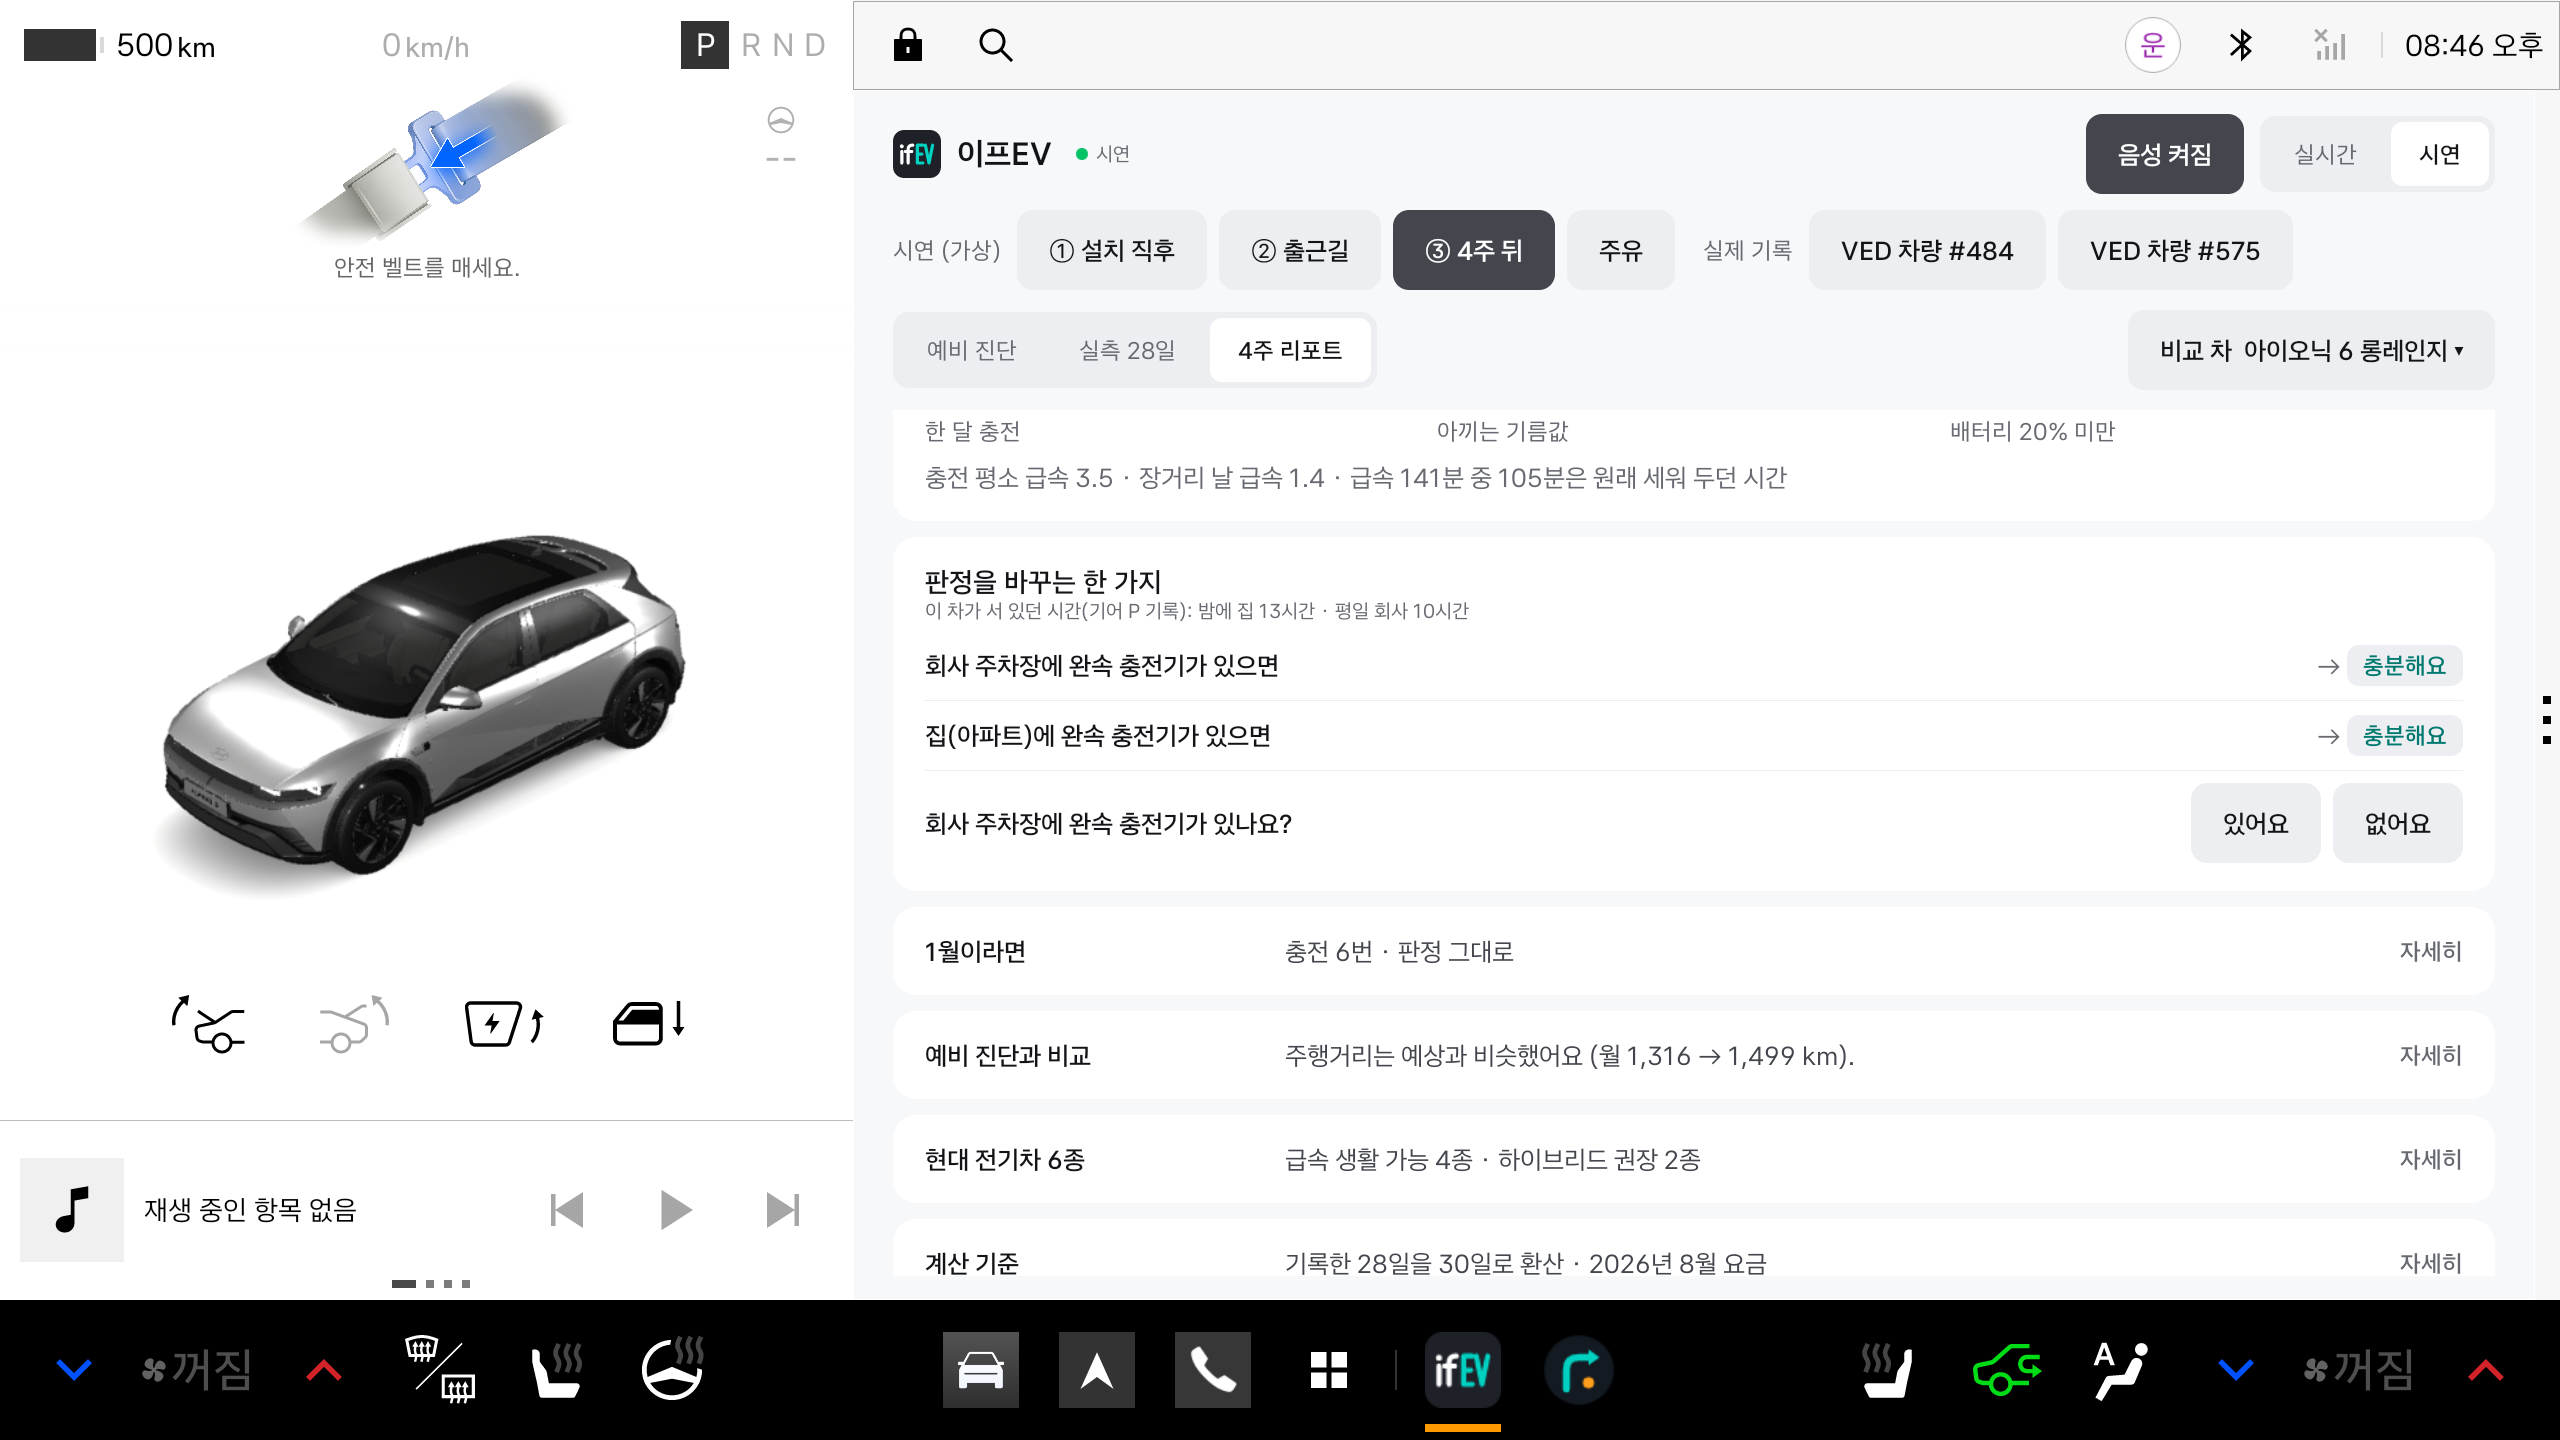
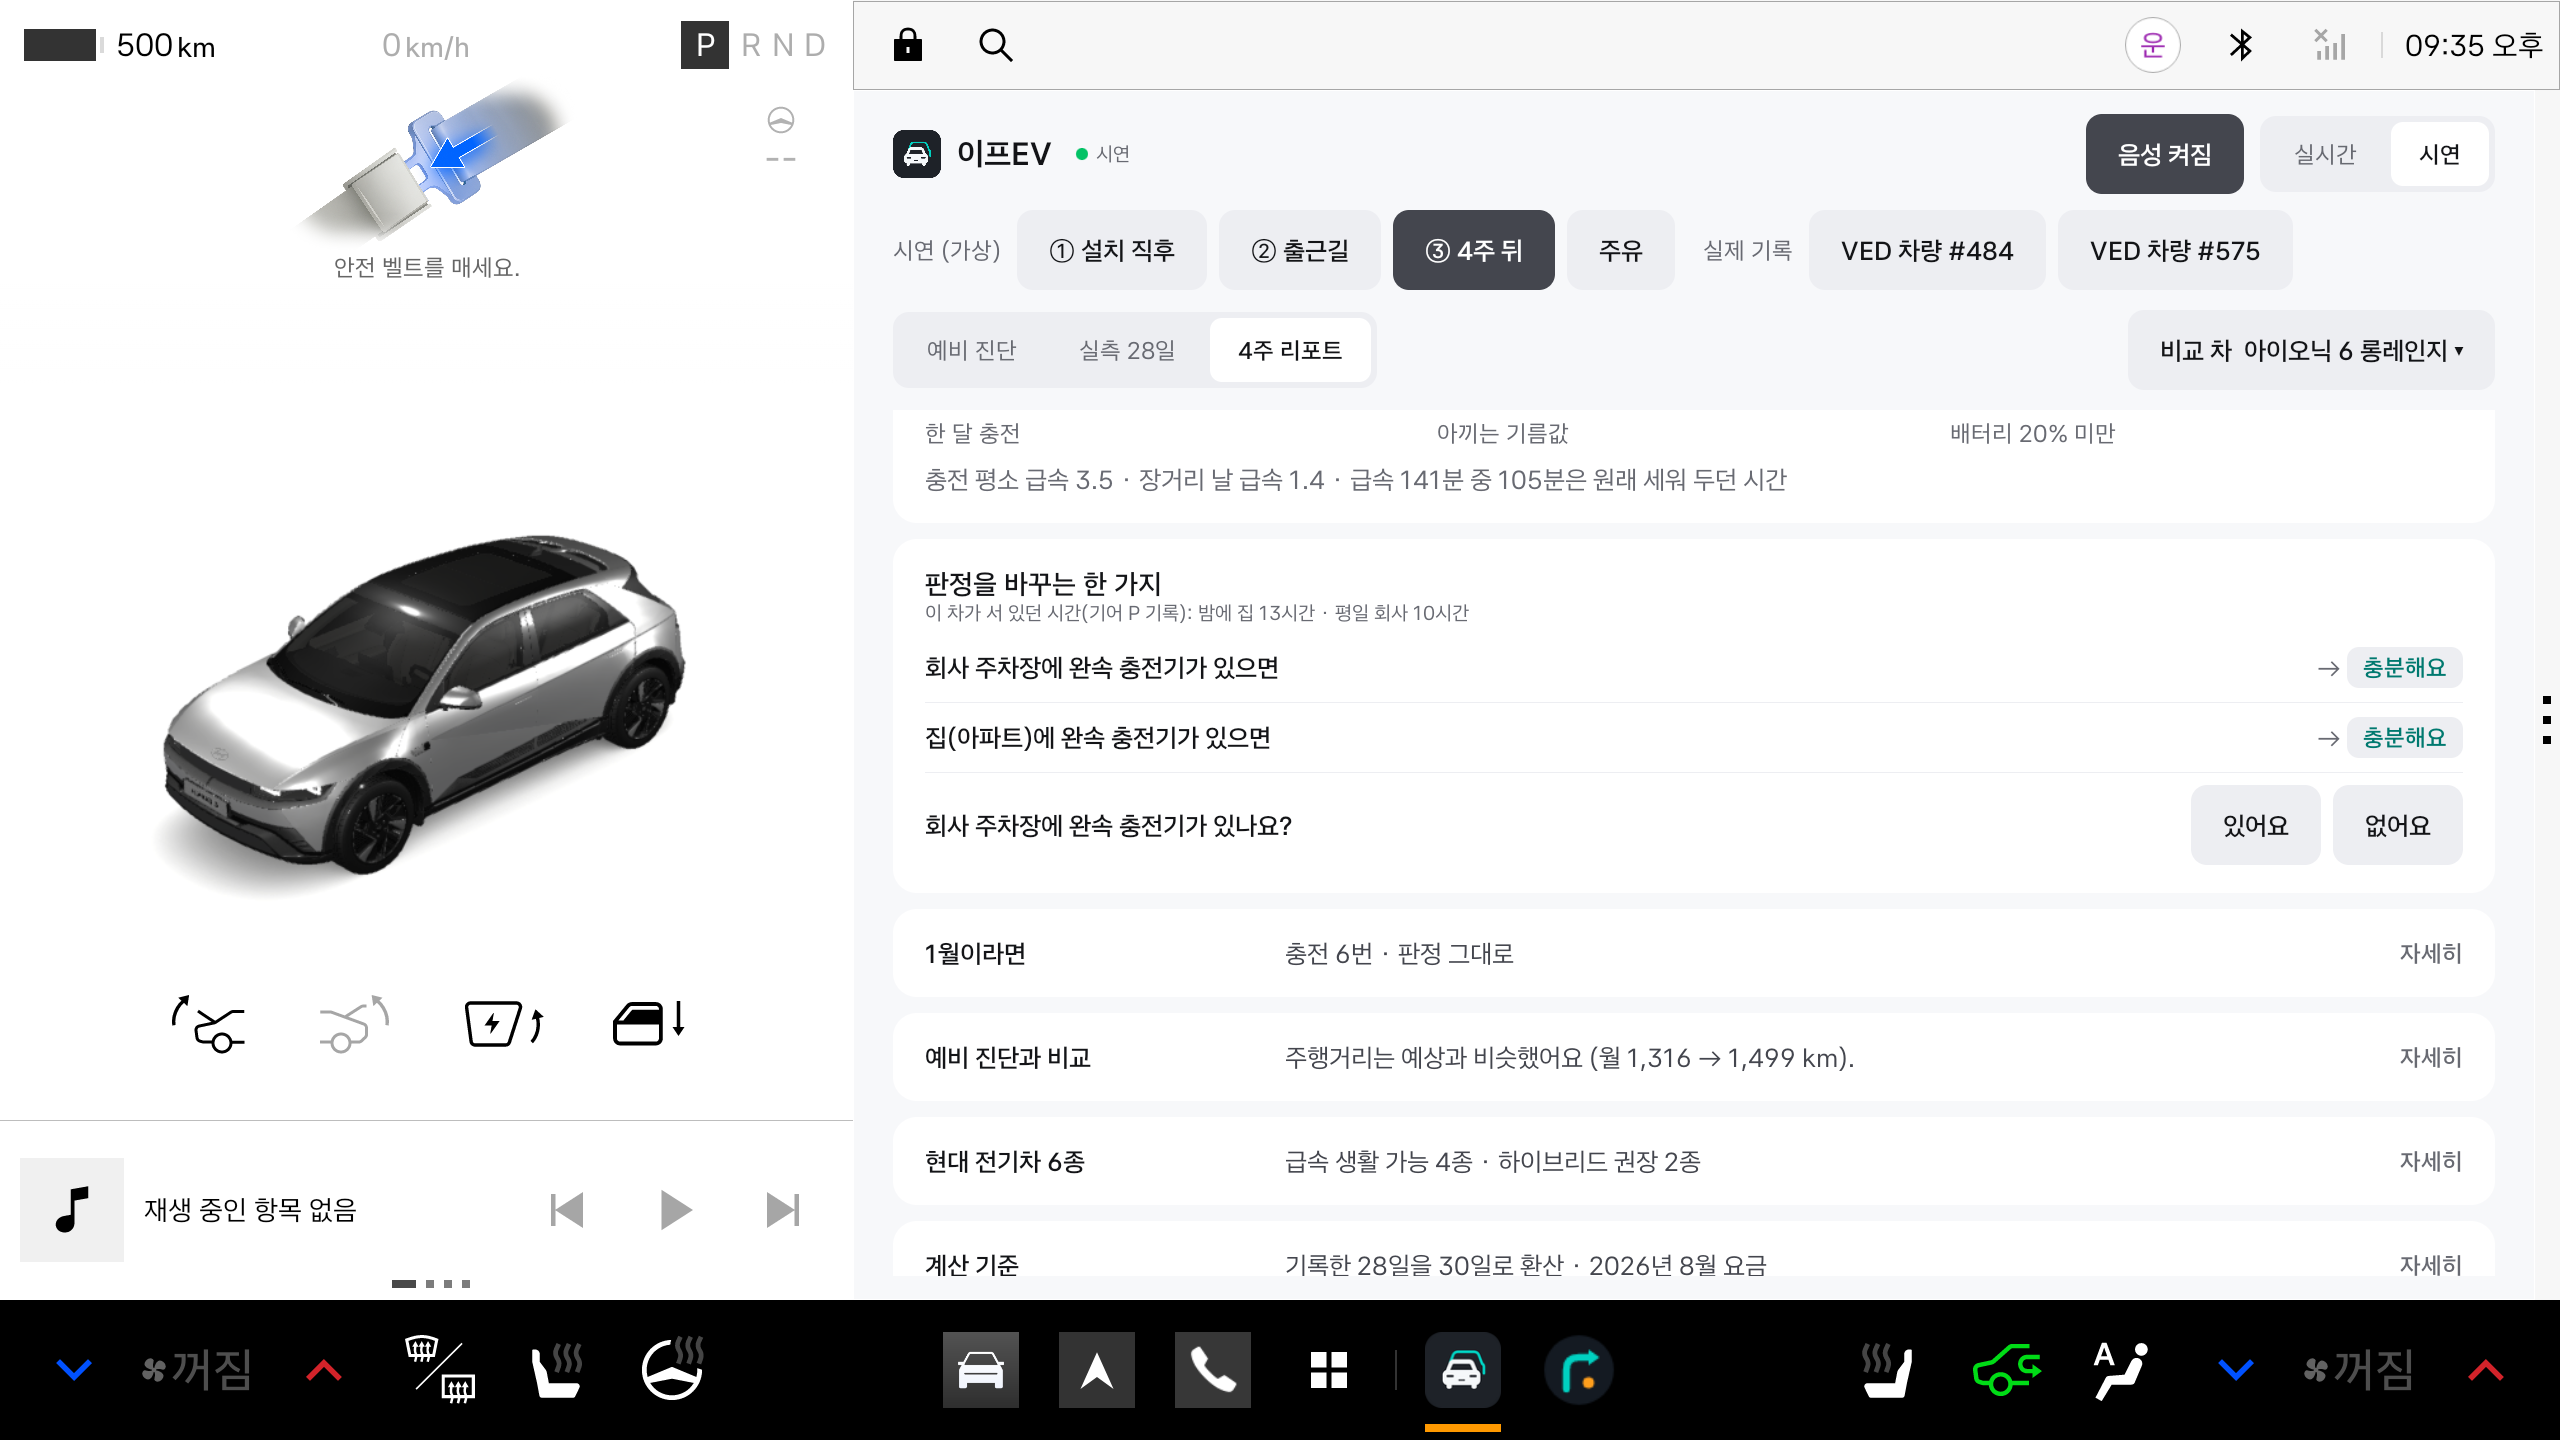
아이콘 교체: 자동차와 청록 윤곽(가상 전기차) 이미지, 알림용 단색 아이콘, 캡처 갱신

diff --git a/app/src/main/java/com/ifev/app/RecorderService.kt b/app/src/main/java/com/ifev/app/RecorderService.kt
@@ -38,7 +38,7 @@ class RecorderService : Service() {
         manager.createNotificationChannel(NotificationChannel(CHANNEL, getString(R.string.channel_name), NotificationManager.IMPORTANCE_MIN))
         val open = PendingIntent.getActivity(this, 0, Intent(this, MainActivity::class.java), PendingIntent.FLAG_IMMUTABLE)
         val notification = Notification.Builder(this, CHANNEL)
-            .setSmallIcon(R.drawable.ic_launcher)
+            .setSmallIcon(R.drawable.ic_notification)
             .setContentTitle(getString(R.string.app_name))
             .setContentText(getString(R.string.recording))
             .setContentIntent(open)

diff --git a/app/src/main/java/com/ifev/app/ui/MainScreen.kt b/app/src/main/java/com/ifev/app/ui/MainScreen.kt
@@ -96,7 +96,7 @@ fun MainScreen(ui: UiState, actions: Actions) {
 private fun TopBar(ui: UiState, actions: Actions) {
     val c = LocalPleosColors.current
     Row(Modifier.fillMaxWidth(), verticalAlignment = Alignment.CenterVertically) {
-        Image(painterResource(R.drawable.ic_launcher), contentDescription = null, modifier = Modifier.size(48.dp))
+        Image(painterResource(R.drawable.ic_logo), contentDescription = null, modifier = Modifier.size(48.dp))
         Spacer(Modifier.width(16.dp))
         Text("이프EV", style = PleosType.title, color = c.textPrimary)
         Spacer(Modifier.width(24.dp))
